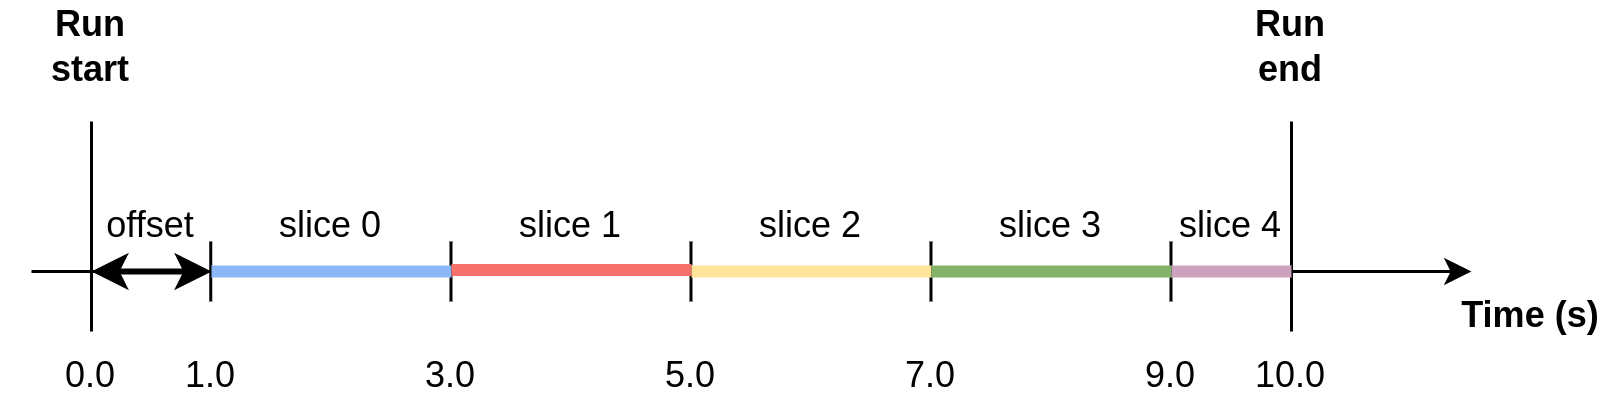
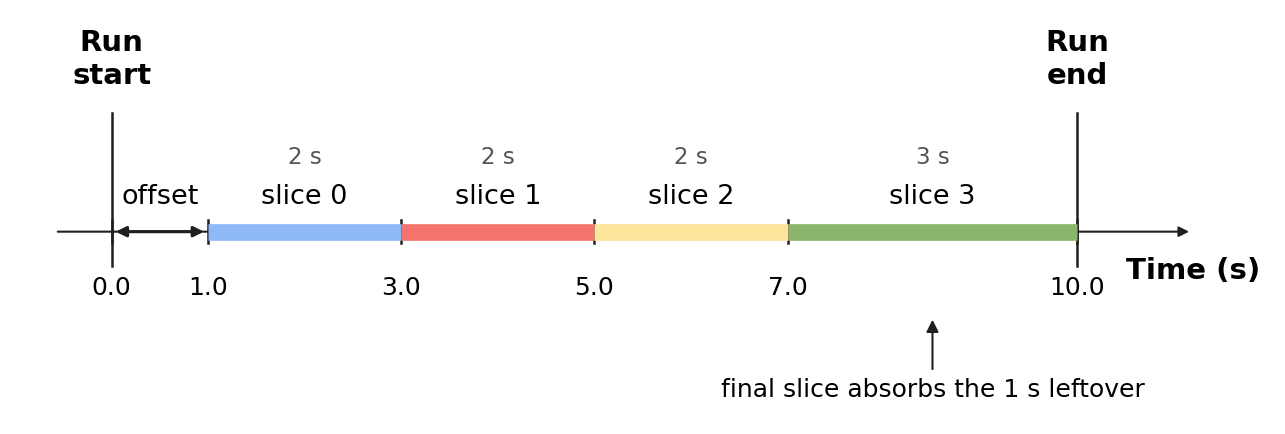
Document the last-slice rule and lists of slice lengths (#1191)
The user documentation on slicing describes the final slice, which
absorbs the time left at the run end, for a single number and for a
list, and the exception of a run shorter than the list. Example 2 and
its figure are updated to the rule, and a new Example 3 shows a list of
slice lengths. The slice metadata table describes slice_interval as the
length of each slice. A script draws both figures. The schema
description of timeSliceInterval states the rule.

diff --git a/docs/user/media/scripts/time_slicing_partition.py b/docs/user/media/scripts/time_slicing_partition.py
@@ -1,0 +1,104 @@
+"""Draw the time-slicing partition figures for docs/user/slicing.rst.
+
+- ``time_slicing_offset.png`` (Example 2): a 10 s run sliced every 2 s from an offset of 1 s. The final slice
+  absorbs the 1 s leftover of the run and lasts 3 s, from 7 s to 10 s.
+- ``time_slicing_interval_list.png`` (Example 3): a 13 s run sliced with the list ``[2, 4]``. The last value, 4 s, is
+  repeated, and the final slice absorbs the 3 s leftover and lasts 7 s, from 6 s to 13 s.
+
+Usage: python time_slicing_partition.py <output directory>
+"""
+
+import argparse
+import os
+from typing import List, Tuple
+
+import matplotlib
+
+matplotlib.use("Agg")
+import matplotlib.pyplot as plt  # noqa: E402
+
+INK = "#1f1f1f"
+SLICE_COLORS = ["#8fb8f6", "#f4736c", "#fde49b", "#8ab56a", "#cfa0c8"]  # colors of the other time-slicing figures
+Y_LINE = 0.0  # height of the time axis
+
+
+def draw(path: str, run_end: float, offset: float, windows: List[Tuple[float, float]], notes: List[Tuple]) -> str:
+    """Draw one time axis with its slices, and return the path of the saved PNG.
+
+    Parameters
+    ----------
+    path
+        Output PNG file
+    run_end
+        Run end, in seconds from the run start
+    offset
+        Start of the first slice, in seconds
+    windows
+        ``(start, end)`` of each slice, in seconds
+    notes
+        ``(x, text)`` annotations drawn below the axis, pointing at time ``x``
+    """
+    fig, ax = plt.subplots(figsize=(10.8, 3.5))
+
+    # time axis, run start and run end
+    ax.annotate("", xy=(run_end * 1.12, Y_LINE), xytext=(-0.06 * run_end, Y_LINE),
+                arrowprops=dict(arrowstyle="-|>", color=INK))  # fmt: skip
+    ax.text(run_end * 1.12, Y_LINE - 0.25, "Time (s)", fontsize=14, fontweight="bold", ha="center", va="top")
+    for t, label in [(0.0, "Run\nstart"), (run_end, "Run\nend")]:
+        ax.plot([t, t], [Y_LINE - 0.35, Y_LINE + 1.2], color=INK, lw=1.2)
+        ax.text(t, Y_LINE + 1.75, label, fontsize=14, fontweight="bold", ha="center", va="center")
+
+    # offset, as a double arrow between the run start and the first slice
+    if offset > 0:
+        ax.annotate("", xy=(0.0, Y_LINE), xytext=(offset, Y_LINE),
+                    arrowprops=dict(arrowstyle="<|-|>", color=INK, lw=1.5))  # fmt: skip
+        ax.text(offset / 2, Y_LINE + 0.35, "offset", fontsize=13, ha="center", va="center")
+
+    # slices, labelled with their index and length
+    boundaries = sorted({0.0, run_end, *[t for window in windows for t in window]})
+    for index, (start, end) in enumerate(windows):
+        ax.plot([start, end], [Y_LINE, Y_LINE], color=SLICE_COLORS[index % len(SLICE_COLORS)], lw=8,
+                solid_capstyle="butt", zorder=3)  # fmt: skip
+        ax.text((start + end) / 2, Y_LINE + 0.35, f"slice {index}", fontsize=13, ha="center", va="center")
+        ax.text((start + end) / 2, Y_LINE + 0.75, f"{end - start:g} s", fontsize=11, ha="center", va="center",
+                color="#555555")  # fmt: skip
+    for t in boundaries:
+        ax.plot([t, t], [Y_LINE - 0.12, Y_LINE + 0.12], color=INK, lw=1.2)
+        ax.text(t, Y_LINE - 0.45, f"{t:.1f}", fontsize=12, ha="center", va="top")
+
+    # annotations below the axis
+    for x, text in notes:
+        ax.annotate(text, xy=(x, Y_LINE - 0.85), xytext=(x, Y_LINE - 1.6), fontsize=12, ha="center", va="center",
+                    arrowprops=dict(arrowstyle="-|>", color=INK))  # fmt: skip
+
+    ax.set_xlim(-0.1 * run_end, run_end * 1.2)
+    ax.set_ylim(-1.9, 2.2)
+    ax.axis("off")
+    fig.savefig(path, dpi=150, bbox_inches="tight")
+    plt.close(fig)
+    return path
+
+
+def draw_all(output_directory: str) -> List[str]:
+    """Draw both figures in `output_directory` and return the paths of the saved PNGs."""
+    offset_figure = draw(
+        os.path.join(output_directory, "time_slicing_offset.png"),
+        run_end=10.0,
+        offset=1.0,
+        windows=[(1.0, 3.0), (3.0, 5.0), (5.0, 7.0), (7.0, 10.0)],
+        notes=[(8.5, "final slice absorbs the 1 s leftover")],
+    )
+    list_figure = draw(
+        os.path.join(output_directory, "time_slicing_interval_list.png"),
+        run_end=13.0,
+        offset=0.0,
+        windows=[(0.0, 2.0), (2.0, 6.0), (6.0, 13.0)],
+        notes=[(9.5, "last value (4 s) repeated, plus the 3 s leftover")],
+    )
+    return [offset_figure, list_figure]
+
+
+if __name__ == "__main__":
+    parser = argparse.ArgumentParser(description=__doc__.splitlines()[0])
+    parser.add_argument("output_directory", help="directory where the PNG files are written")
+    draw_all(parser.parse_args().output_directory)

diff --git a/docs/user/slicing.rst b/docs/user/slicing.rst
@@ -33,6 +33,23 @@ The following parameters specify the time slicing:
         "timeSlicePeriod": null,
     }
 
+``timeSliceInterval`` is either a single slice length or a list of slice lengths, in seconds (see Example 3).
+``timeSliceOffset`` is the start of the first slice, in seconds after the run start.
+
+The final slice
++++++++++++++++
+
+Without ``timeSlicePeriod``, the slices are consecutive and cover the run from ``timeSliceOffset`` to the run end.
+A single number ``t`` is the same as the list ``[t]``. The values of the list are used in order, and the last value
+``t`` is repeated until the run is covered. The time left at the run end, shorter than ``t``, is not made into a
+slice of its own: the final slice absorbs it, so the final slice lasts at least ``t`` and less than ``2t``.
+
+When the run is shorter than the values of the list, the run end cuts the current slice short, however short that
+is, and the remaining values are not used. An error message in the log reports it.
+
+The final slice ends one neutron pulse after the last pulse of the run when that is later than the run end, so that
+it keeps the events of the last pulse.
+
 
 Example 1: Slicing using time interval
 ++++++++++++++++++++++++++++++++++++++
@@ -66,10 +83,37 @@ Example 2: Slicing using time interval and offset
    :alt: Diagram of time slicing using an interval and offset
    :width: 800px
 
-Events recorded before ``timeSliceOffset`` (here 0-1 s) are discarded. When the remaining run is not an
-exact multiple of ``timeSliceInterval``, the last slice is shorter (here slice 4, from 9 s to 10 s).
+Events recorded before ``timeSliceOffset`` (here 0-1 s) are discarded. The remaining 9 s are not an exact multiple
+of ``timeSliceInterval``: instead of a 1 s slice at the run end, the final slice absorbs the leftover and lasts 3 s,
+from 7 s to 10 s (see `The final slice`_).
 
-Example 3: Slicing using time slice period
+Example 3: Slicing using a list of slice lengths
+++++++++++++++++++++++++++++++++++++++++++++++++
+
+``timeSliceInterval`` can be a list of slice lengths, in seconds. Each value gives one slice, in order, starting at
+``timeSliceOffset``.
+
+.. code-block:: json
+
+    {
+        "useTimeSlice": true,
+        "timeSliceInterval": [2.0, 4.0],
+        "timeSliceOffset": 0.0,
+        "timeSlicePeriod": null,
+    }
+
+.. figure:: media/time_slicing_interval_list.png
+   :alt: Diagram of time slicing using a list of slice lengths
+   :width: 800px
+
+The 13 s run is longer than the 6 s of the list, so the last value, 4 s, is repeated, and the final slice absorbs
+the 3 s left at the run end: it lasts 7 s, from 6 s to 13 s. A warning in the log reports the slices added to the
+list. For a 5 s run, the slices would be 0-2 s and 2-5 s, the run end cutting the second slice short.
+
+A list of more than one value cannot be combined with ``timeSlicePeriod``: the reduction parameters are rejected
+when they are validated.
+
+Example 4: Slicing using time slice period
 ++++++++++++++++++++++++++++++++++++++++++
 
 When using a time slice period, slices for a given time interval are reduced together.
@@ -105,8 +149,8 @@ period, the first period starts at 1 s and the last window (9-10 s) is shorter:
    :width: 800px
 
 Note: if the period is not an integer multiple of the time slice interval, then the remainder of each period
-forms its last, shorter slice. In the example below, each period holds two 3 second slices, then one
-2 second slice.
+forms its last, shorter slice: `The final slice`_ rule does not apply within a period. In the example below, each
+period holds two 3 second slices, then one 2 second slice.
 
 .. code-block:: json
 
@@ -117,7 +161,7 @@ forms its last, shorter slice. In the example below, each period holds two 3 sec
         "timeSlicePeriod": 8.0,
     }
 
-Example 4: Time slicing and event filtering during loading
+Example 5: Time slicing and event filtering during loading
 ++++++++++++++++++++++++++++++++++++++++++++++++++++++++++
 
 The time slicing parameters are applied relative to the whole data from the beginning to the end of
@@ -163,7 +207,7 @@ Example for BIOSANS or GPSANS:
         }
     }
 
-As for EQSANS (Example 4), the load-time cutoffs and the time slices are independent. Events outside
+As for EQSANS (Example 5), the load-time cutoffs and the time slices are independent. Events outside
 ``FilterByTimeStart`` and ``FilterByTimeStop`` are discarded during loading, but the slices still start at
 ``timeSliceOffset`` after the run start, whatever the value of ``FilterByTimeStart``. Slices that fall
 outside the cutoffs hold no events; see `Empty and partially filled slices`_.
@@ -214,7 +258,7 @@ with suffix ``_0``, and the windows 30-40 s, 40-50 s and 50-60 s with suffixes `
    :width: 800px
 
 With periodic slicing, an empty window does not remove a slice, because each slice also collects the events
-of the same window in the other periods. In the figure of Example 4, the empty window 0-2 s belongs to slice 0,
+of the same window in the other periods. In the figure of Example 5, the empty window 0-2 s belongs to slice 0,
 which still holds the events recorded from 4 s to 6 s and from 8 s to 8.71 s.
 
 Slice metadata
@@ -230,11 +274,13 @@ Each slice receives the following sample logs:
      - Meaning
    * - ``slice_start``, ``slice_end``
      - Time slicing: start and end of the slice's window, in seconds from the run start. This is the full
-       window even when the slice is only partly filled, and the last slice may end slightly after the run end.
+       window even when the slice is only partly filled, and the final slice may end slightly after the run end
+       (see `The final slice`_).
        Periodic slicing: start and end of the window, in seconds from the start of each period. Log slicing: lower and upper
        values of the sample log, in the log's units.
    * - ``slice_interval``
-     - Time and periodic slicing: the value of ``timeSliceInterval``, in seconds. Log slicing: the
+     - Time slicing: the length of the slice, in seconds; it differs between slices for a list of slice lengths
+       and for the final slice. Periodic slicing: the value of ``timeSliceInterval``, in seconds. Log slicing: the
        log-value interval.
    * - ``slice_period``
      - The value of ``timeSlicePeriod``, in seconds (periodic slicing only).
